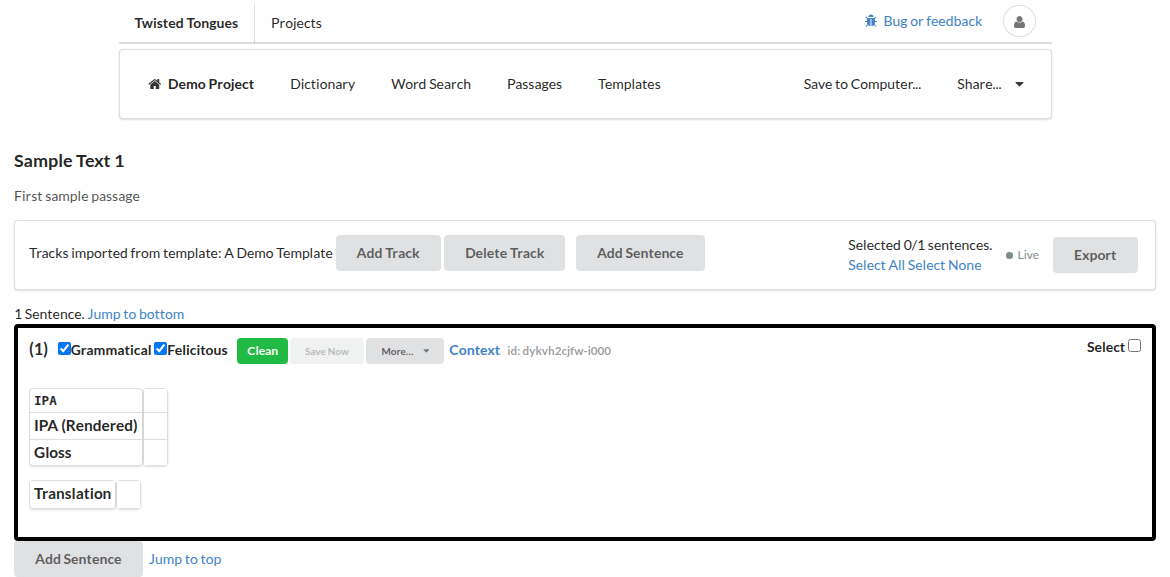
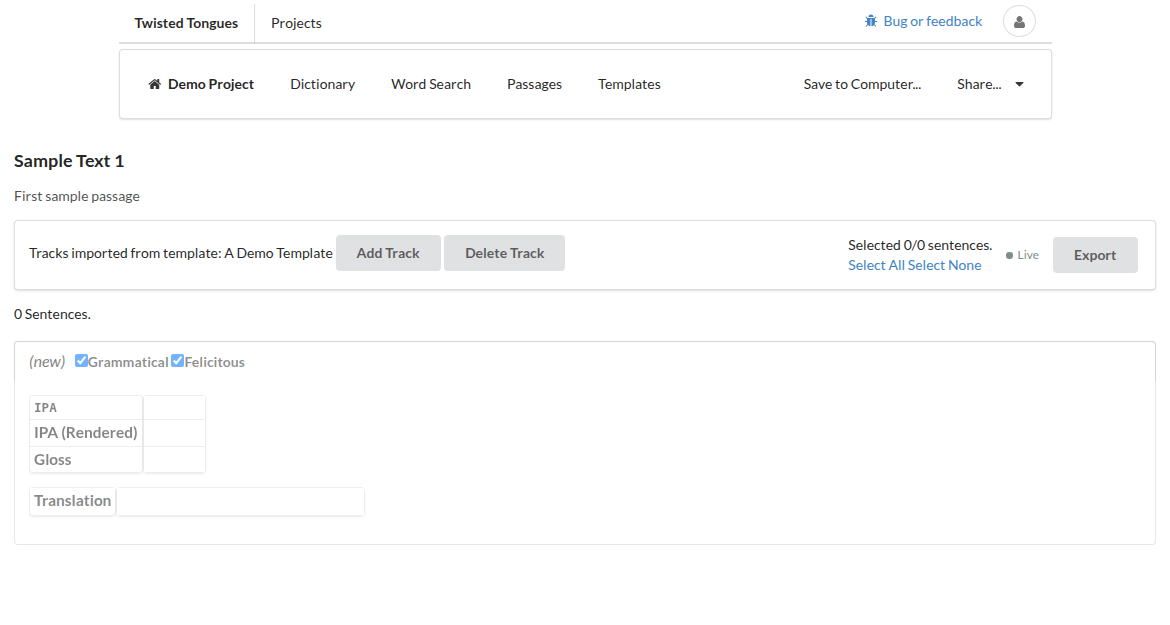
Write §4.2 the way a sentence is added now (#24)
* Write §4.2 the way a sentence is added now

* Say it is added to the passage, and stop there

* Let the menu items speak for themselves

* Say what appears, not what the row does to itself

* Tell the reader what to do, without the flourish

* Say what the colours mean, and drop the two-tabs aside

* Name the button the reader is looking for

* Name the way out of an edit you did not want

---------

diff --git a/src/manual.fr.md b/src/manual.fr.md
@@ -100,13 +100,13 @@ Figure 13\. Supprimer un passage.
 
 ### 4.2 Saisir des données dans un passage {#4.2-entering-data-into-a-passage}
 
-Dans l'onglet « Passages », cliquez sur un passage pour en consulter et en modifier les données. Si aucune donnée n'a encore été saisie pour le passage sélectionné, celui-ci est vide. Pour ajouter des phrases à remplir, cliquez sur « Add sentence » (ajouter une phrase). Si un modèle a été choisi pour le passage, les pistes associées apparaissent à l'ajout d'une phrase. Il suffit alors de taper pour saisir les données de la phrase. Chaque nouvelle phrase ajoutée est par défaut marquée comme grammaticale (« Grammatical »), avec une case cochée dans le coin supérieur gauche de l'énoncé. Pour marquer une phrase comme agrammaticale, décochez la case. Chaque phrase est de même marquée par défaut comme appropriée (« Felicitous ») ; pour marquer une phrase comme pragmatiquement inappropriée, décochez cette case (voir la section 5.1.3 pour l'effet de ces marquages sur la recherche et l'export). Dès que des données sont ajoutées à une phrase (figure 14), le bouton vert « clean » (propre) devient un bouton jaune « dirty » (non sauvegardé), ce qui signifie que les données ajoutées ne sont pas encore enregistrées (figure 15). Avant de quitter la page, il vous sera proposé d'enregistrer toutes les données nouvellement saisies. En cas de conflit — plusieurs utilisateurs tentant de modifier la même phrase simultanément, ou un même utilisateur essayant d'enregistrer deux versions de la même phrase avant que la page n'ait sauvegardé la première modification —, un bouton rouge « Conflict » (conflit) peut apparaître (figure 16). Dans ce cas, il suffit d'actualiser la page. Pour ajouter d'autres données, cliquez sur « Add sentence » et répétez la procédure ci-dessus.
+Dans l'onglet « Passages », cliquez sur un passage pour en consulter et en modifier les données. Sous la dernière phrase, les rédacteurs voient une ligne vide contenant les pistes du passage (figure 14). Saisissez-y la phrase suivante et cliquez sur « Save Now » (enregistrer maintenant) pour l'ajouter au passage ; une nouvelle ligne vide apparaît alors en dessous, pour la phrase suivante. Une ligne vide propose aussi « Duplicate previous » (dupliquer la précédente), qui la remplit d'une copie de la ligne au-dessus. Chaque nouvelle phrase ajoutée est par défaut marquée comme grammaticale (« Grammatical »), avec une case cochée dans le coin supérieur gauche de l'énoncé. Pour marquer une phrase comme agrammaticale, décochez la case. Chaque phrase est de même marquée par défaut comme appropriée (« Felicitous ») ; pour marquer une phrase comme pragmatiquement inappropriée, décochez cette case (voir la section 5.1.3 pour l'effet de ces marquages sur la recherche et l'export). Chaque ligne porte une étiquette : en vert (« Clean »), la phrase est enregistrée dans la base ; en jaune (« New » ou « Dirty »), elle ne l'est pas (figure 15). Avant de quitter la page, il vous sera proposé d'enregistrer ce qui reste en jaune, et un bouton « Jump to first unsaved » (aller à la première ligne non enregistrée), en haut et en bas du passage, vous y mène. Si plusieurs utilisateurs modifient la même phrase simultanément, un bouton rouge « Conflict » (conflit) peut apparaître (figure 16). Dans ce cas, il suffit d'actualiser la page.
 
 Les phrases sont numérotées sur la gauche du passage — (1), (2), (3) — et chaque ligne affiche également un identifiant permanent. Les numéros changent dès qu'une phrase est ajoutée ou supprimée au-dessus ; l'identifiant, lui, ne change pas, de sorte qu'un lien « Context » (section 5.4) ouvre toujours la même phrase.
 
-La ligne de chaque phrase porte un menu « More… » (plus), qui regroupe les opérations les moins courantes. « Insert new above » (insérer au-dessus) place une phrase vide juste au-dessus de cette ligne. « Duplicate here » (dupliquer ici) copie la phrase sur la ligne immédiatement en dessous, et « Duplicate at end » (dupliquer à la fin) la copie tout en bas du passage. « Delete… » (supprimer) supprime la phrase, après vous avoir demandé de confirmer. Une phrase comportant des modifications non enregistrées ne peut être ni copiée ni supprimée : enregistrez-la d'abord. Les lecteurs ne voient pas ce menu.
+La ligne de chaque phrase porte un menu « More… » (plus), qui regroupe les opérations les moins courantes. « Insert new above » (insérer au-dessus) place juste au-dessus de cette ligne une ligne vide, où saisir une nouvelle phrase. « Duplicate here » (dupliquer ici) en place une en dessous contenant une copie de la phrase, et « Duplicate at end » (dupliquer à la fin) fait de même tout en bas du passage. « Discard edits… » (annuler les modifications) rétablit la dernière version enregistrée d'une phrase modifiée, et « Delete… » (supprimer) supprime la phrase, après vous avoir demandé de confirmer. Une phrase comportant des modifications non enregistrées ne peut être ni copiée ni supprimée : enregistrez-la ou annulez les modifications d'abord. Les lecteurs ne voient pas ce menu.
 
-Figure 14\. Ajouter une phrase, avant la saisie des données.  
+Figure 14\. La ligne où se saisit une phrase, à la fin d'un passage vide.  
 ![](images/figure_014_add_sentence_empty.png)
 
 Figure 15\. Ajout de données à un passage, avant enregistrement.  

diff --git a/src/manual.md b/src/manual.md
@@ -100,13 +100,13 @@ Figure 13\. Delete passage.
 
 ### 4.2 Entering data into a passage {#4.2-entering-data-into-a-passage}
 
-In the Passages tab, click a passage to view and edit the data in it. If no data has yet been entered for the selected passage, the passage will be empty. To add sentences to be filled in, click “Add sentence”. If a template has been selected for the passage, tracks associated with that passage will appear upon adding a sentence. One can then type to enter data into the sentence. Each new sentence added is by default marked as “Grammatical” with a checkmark in the upper left corner of the utterance. To mark a sentence as ungrammatical, un-check the box. Each sentence is likewise marked as “Felicitous” by default; to mark a sentence as pragmatically infelicitous, un-check that box (see section 5.1.3 for how both markings affect search and export). Upon adding data to a sentence (Figure 14), the green “clean” button will change to a yellow “dirty” button, meaning that the added data is unsaved (Figure 15). Before leaving the page, you will be prompted to save all newly entered data. If there are conflicts with multiple users attempting to edit the same sentence simultaneously (or if a single user tries to save two versions of the same sentence before the page has backed up the first change), a red “Conflict” button may appear (Figure 16). If this is the case, simply refresh the page. To add additional data, click “Add sentence”, and repeat the above process.
+In the Passages tab, click a passage to view and edit the data in it. Below the last sentence, writers are shown an empty row with the passage’s tracks in it (Figure 14). Type the next sentence there and click “Save Now” to add it to the passage; a new empty row then appears below, for the sentence after that. An empty row also offers “Duplicate previous”, which fills it with a copy of the line above. Each new sentence is by default marked as “Grammatical” with a checkmark in the upper left corner of the utterance. To mark a sentence as ungrammatical, un-check the box. Each sentence is likewise marked as “Felicitous” by default; to mark a sentence as pragmatically infelicitous, un-check that box (see section 5.1.3 for how both markings affect search and export). Each row carries a tag: green (“Clean”) means the sentence is saved in the database, and yellow (“New” or “Dirty”) means it is not (Figure 15). Before leaving the page you will be prompted to save anything still yellow, and a “Jump to first unsaved” button at the top and bottom of the passage takes you to it. If there are conflicts with multiple users attempting to edit the same sentence simultaneously, a red “Conflict” button may appear (Figure 16). If this is the case, simply refresh the page.
 
 Sentences are numbered down the left of the passage — (1), (2), (3) — and each row also shows a permanent id. The numbers change as sentences are added or removed above them; the id does not, so a Context link (section 5.4) always opens the same sentence.
 
-Each sentence's row carries a “More…” menu, holding the operations needed less often. “Insert new above” puts a new, empty sentence immediately above that row. “Duplicate here” copies the sentence onto the line below it, and “Duplicate at end” copies it to the bottom of the passage. “Delete…” removes the sentence, after asking you to confirm. A sentence with unsaved changes cannot be copied or deleted: save it first. Readers see no menu.
+Each sentence's row carries a “More…” menu, holding the operations needed less often. “Insert new above” puts an empty row immediately above that one, to type a new sentence into. “Duplicate here” puts a row below it holding a copy of the sentence, and “Duplicate at end” does the same at the bottom of the passage. “Discard edits…” puts a changed sentence back to its last saved version, and “Delete…” removes the sentence, after asking you to confirm. A sentence with unsaved changes cannot be copied or deleted: save it or discard the edits first. Readers see no menu.
 
-Figure 14\. Add sentence, before typing in the data.  
+Figure 14\. The row a sentence is typed into, at the end of an empty passage.  
 ![](images/figure_014_add_sentence_empty.png)
 
 Figure 15\. Adding data to a passage before saving.  
